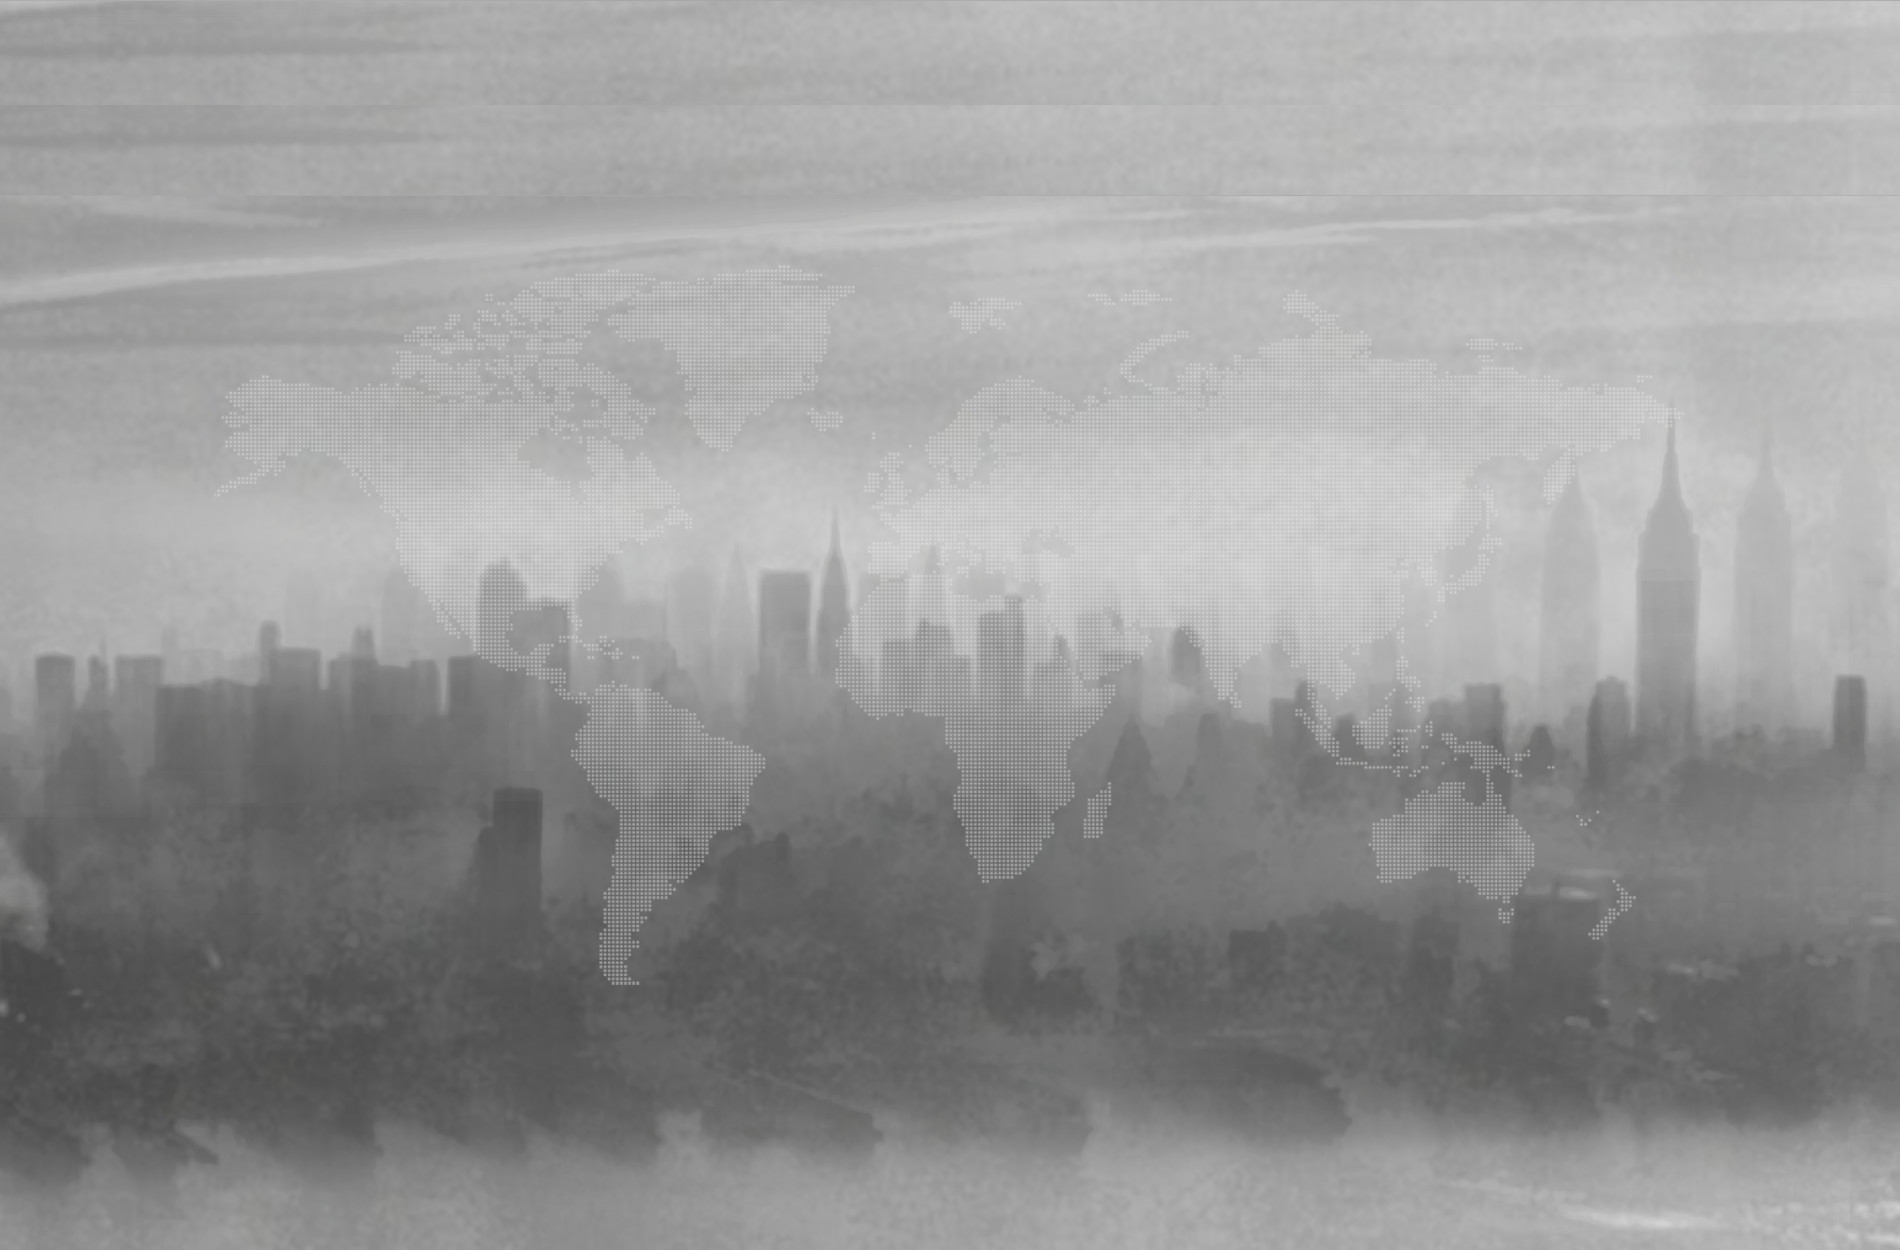
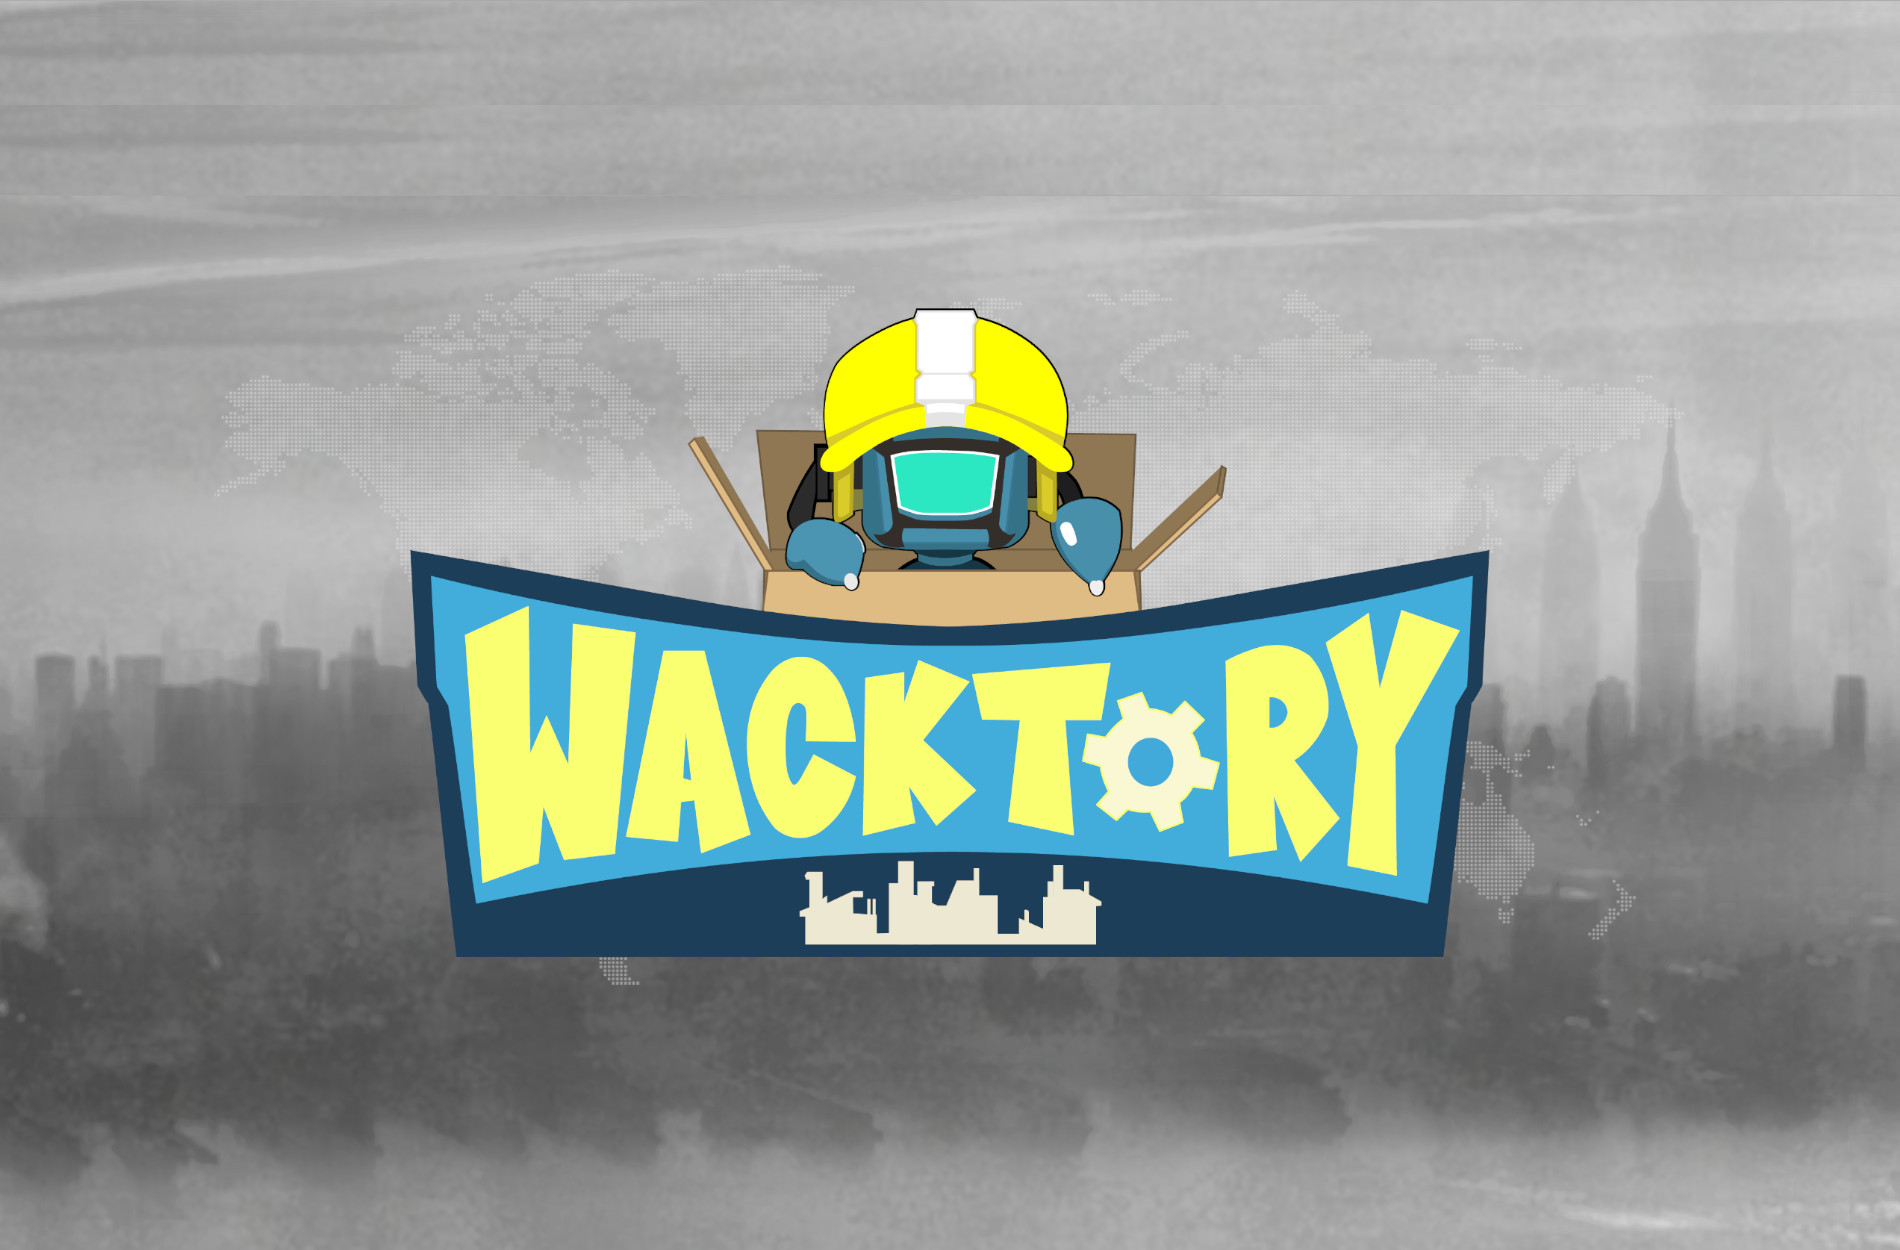
Added new background image. Removed text from the background image screen. Removed button from background image screen

Changed region(s): [[0.2174, 0.2496, 0.8074, 0.78]]

diff --git a/index.html b/index.html
@@ -58,10 +58,10 @@
     <header class="masthead">
         <div class="container">
             <div class="intro-text">
-                <div class="intro-lead-in">Welcome to</div>
-                <div class="intro-heading text-uppercase">Wacktory</div>
+                <div class="intro-lead-in"> </div>
+                <div class="intro-heading text-uppercase"> </div>
                     
-                <a class="btn btn-primary btn-xl text-uppercase js-scroll-trigger" href="#services">About Our Game</a>
+                <!-- <a class="btn btn-primary btn-xl text-uppercase js-scroll-trigger" href="#services">About Our Game</a> -->
             </div>
         </div>
     </header>
